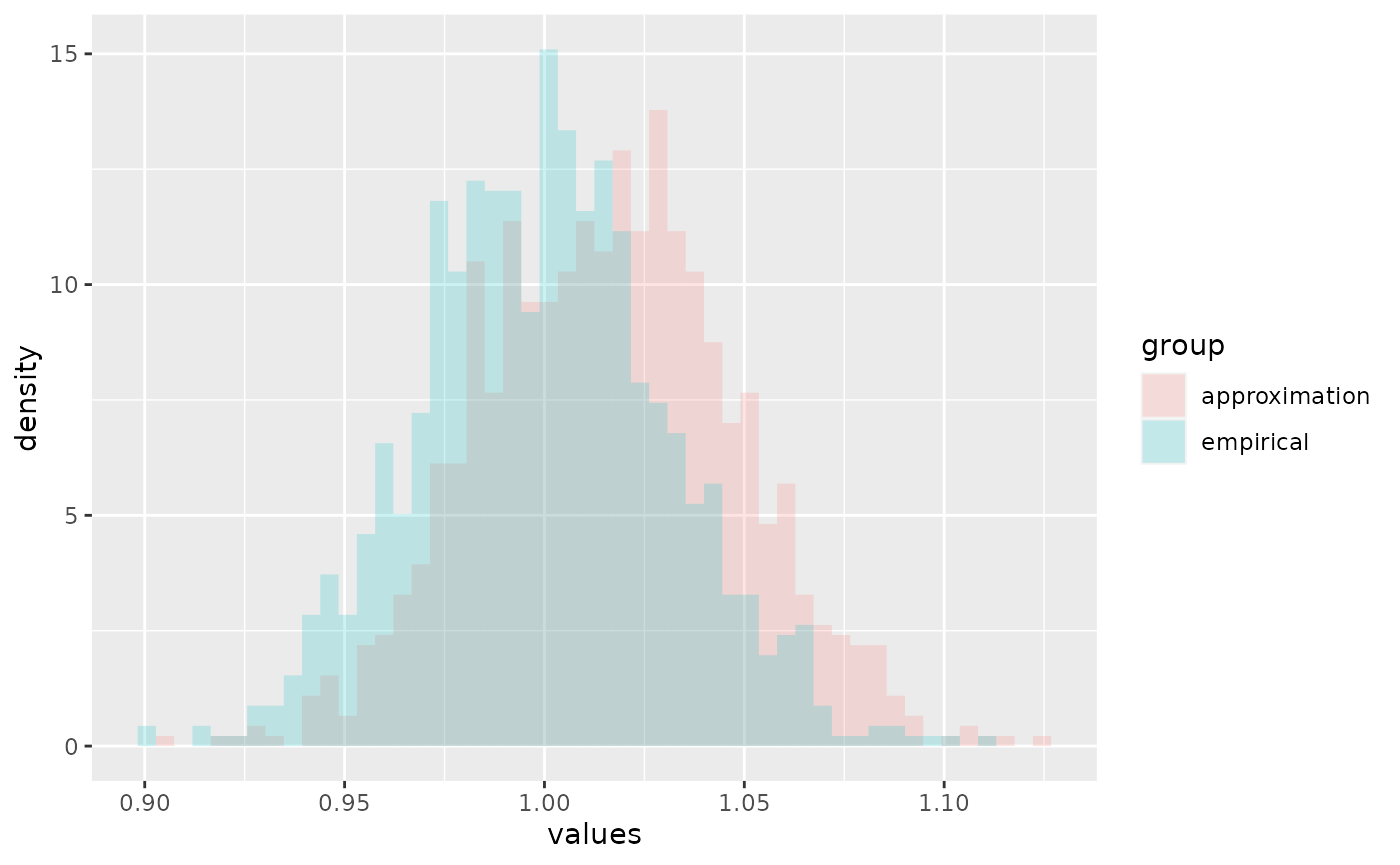
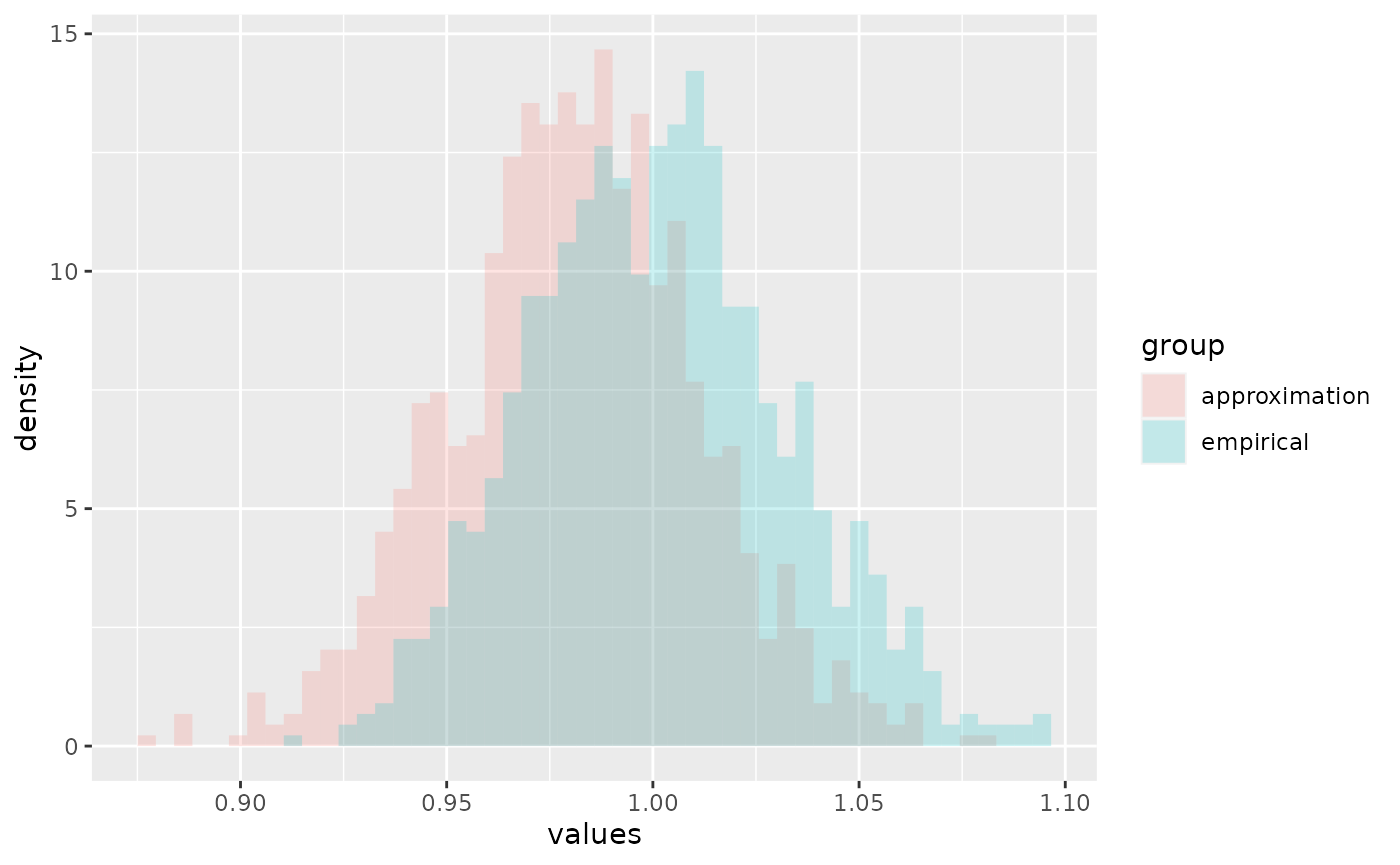
Built site for algebraic.mle: 0.1.0@a665d99

diff --git a/articles/exponential-mle.html b/articles/exponential-mle.html
@@ -103,12 +103,12 @@
 <div class="sourceCode" id="cb4"><pre class="downlit sourceCode r">
 <code class="sourceCode R"><span class="fu"><a href="https://rdrr.io/r/base/print.html" class="external-link">print</a></span><span class="op">(</span><span class="fu"><a href="https://rdrr.io/r/utils/head.html" class="external-link">head</a></span><span class="op">(</span><span class="va">x</span>,n<span class="op">=</span><span class="fl">4</span><span class="op">)</span><span class="op">)</span>
 <span class="co">#&gt; <span style="color: #949494;"># A tibble: 4 × 1</span></span>
-<span class="co">#&gt;        x</span>
-<span class="co">#&gt;    <span style="color: #949494; font-style: italic;">&lt;dbl&gt;</span></span>
-<span class="co">#&gt; <span style="color: #BCBCBC;">1</span> 0.046<span style="text-decoration: underline;">8</span></span>
-<span class="co">#&gt; <span style="color: #BCBCBC;">2</span> 0.053<span style="text-decoration: underline;">3</span></span>
-<span class="co">#&gt; <span style="color: #BCBCBC;">3</span> 0.801 </span>
-<span class="co">#&gt; <span style="color: #BCBCBC;">4</span> 1.94</span></code></pre></div>
+<span class="co">#&gt;         x</span>
+<span class="co">#&gt;     <span style="color: #949494; font-style: italic;">&lt;dbl&gt;</span></span>
+<span class="co">#&gt; <span style="color: #BCBCBC;">1</span> 0.006<span style="text-decoration: underline;">61</span></span>
+<span class="co">#&gt; <span style="color: #BCBCBC;">2</span> 0.152  </span>
+<span class="co">#&gt; <span style="color: #BCBCBC;">3</span> 0.850  </span>
+<span class="co">#&gt; <span style="color: #BCBCBC;">4</span> 2.10</span></code></pre></div>
 <p>We show a histogram of the sample overlaid with a plot of the exponential function’s pdf, with:</p>
 <div class="sourceCode" id="cb5"><pre class="downlit sourceCode r">
 <code class="sourceCode R"><span class="fu"><a href="https://ggplot2.tidyverse.org/reference/ggplot.html" class="external-link">ggplot</a></span><span class="op">(</span><span class="va">x</span>, <span class="fu"><a href="https://ggplot2.tidyverse.org/reference/aes.html" class="external-link">aes</a></span><span class="op">(</span>x<span class="op">=</span><span class="va">x</span><span class="op">)</span><span class="op">)</span> <span class="op">+</span> <span class="fu"><a href="https://ggplot2.tidyverse.org/reference/geom_histogram.html" class="external-link">geom_histogram</a></span><span class="op">(</span><span class="fu"><a href="https://ggplot2.tidyverse.org/reference/aes.html" class="external-link">aes</a></span><span class="op">(</span>y<span class="op">=</span><span class="va">..density..</span><span class="op">)</span>,alpha<span class="op">=</span><span class="fl">.2</span><span class="op">)</span> <span class="op">+</span>
@@ -125,35 +125,35 @@
 <span class="fu"><a href="https://rdrr.io/r/base/summary.html" class="external-link">summary</a></span><span class="op">(</span><span class="va">rate.hat</span><span class="op">)</span>
 <span class="co">#&gt; Maximum likelihood estimator, of type mle_exp ,</span>
 <span class="co">#&gt; is normally distributed with mean</span>
-<span class="co">#&gt; [1] 1.016196</span>
+<span class="co">#&gt; [1] 0.9809235</span>
 <span class="co">#&gt; and variance-covariance</span>
 <span class="co">#&gt;             [,1]</span>
-<span class="co">#&gt; [1,] 0.001032655</span>
+<span class="co">#&gt; [1,] 0.000962211</span>
 <span class="co">#&gt; ---</span>
-<span class="co">#&gt; The asymptotic mean squared error 0.001032655 </span>
+<span class="co">#&gt; The asymptotic mean squared error 0.000962211 </span>
 <span class="co">#&gt; The asymptotic 95% confidence interval is</span>
 <span class="co">#&gt;       2.5 %   97.5 %</span>
-<span class="co">#&gt; 1 0.9633389 1.069053</span>
-<span class="co">#&gt; The log-likelihood is -983.9336 </span>
-<span class="co">#&gt; The AIC is 1969.867</span></code></pre></div>
+<span class="co">#&gt; 1 0.9299009 1.031946</span>
+<span class="co">#&gt; The log-likelihood is -1019.261 </span>
+<span class="co">#&gt; The AIC is 2040.522</span></code></pre></div>
 <p>We can show the point estimator with:</p>
 <div class="sourceCode" id="cb7"><pre class="downlit sourceCode r">
 <code class="sourceCode R"><span class="fu"><a href="../reference/point.html">point</a></span><span class="op">(</span><span class="va">rate.hat</span><span class="op">)</span>
-<span class="co">#&gt; [1] 1.016196</span></code></pre></div>
+<span class="co">#&gt; [1] 0.9809235</span></code></pre></div>
 <p>We can show the Fisher information and variance-covariance matrices with:</p>
 <div class="sourceCode" id="cb8"><pre class="downlit sourceCode r">
 <code class="sourceCode R"><span class="fu"><a href="../reference/fisher_info.html">fisher_info</a></span><span class="op">(</span><span class="va">rate.hat</span><span class="op">)</span>
-<span class="co">#&gt;         [,1]</span>
-<span class="co">#&gt; [1,] 968.378</span>
+<span class="co">#&gt;          [,1]</span>
+<span class="co">#&gt; [1,] 1039.273</span>
 <span class="fu"><a href="https://rdrr.io/r/stats/vcov.html" class="external-link">vcov</a></span><span class="op">(</span><span class="va">rate.hat</span><span class="op">)</span>
 <span class="co">#&gt;             [,1]</span>
-<span class="co">#&gt; [1,] 0.001032655</span></code></pre></div>
+<span class="co">#&gt; [1,] 0.000962211</span></code></pre></div>
 <p>(If <code>rate.hat</code> had been a vector, <code>vcov</code> would have output a variance-covariance matrix. We may consider the above outputs <span class="math inline">\(1 \times 1\)</span> matrices.)</p>
 <p>We can show the confidence interval with:</p>
 <div class="sourceCode" id="cb9"><pre class="downlit sourceCode r">
 <code class="sourceCode R"><span class="fu"><a href="https://rdrr.io/r/stats/confint.html" class="external-link">confint</a></span><span class="op">(</span><span class="va">rate.hat</span><span class="op">)</span>
 <span class="co">#&gt;       2.5 %   97.5 %</span>
-<span class="co">#&gt; 1 0.9633389 1.069053</span></code></pre></div>
+<span class="co">#&gt; 1 0.9299009 1.031946</span></code></pre></div>
 <div class="section level3">
 <h3 id="sampling-distribution-of-the-mle">Sampling distribution of the MLE<a class="anchor" aria-label="anchor" href="#sampling-distribution-of-the-mle"></a>
 </h3>
@@ -205,10 +205,10 @@
 <p>We expected a mean of <span class="math inline">\(2\)</span> and a variance of <span class="math inline">\(4/n = 0.004\)</span>, which is pretty close to what we obtained:</p>
 <div class="sourceCode" id="cb15"><pre class="downlit sourceCode r">
 <code class="sourceCode R"><span class="fu"><a href="../reference/point.html">point</a></span><span class="op">(</span><span class="va">f.hat</span><span class="op">)</span>
-<span class="co">#&gt; [1] 2.032392</span>
+<span class="co">#&gt; [1] 1.961847</span>
 <span class="fu"><a href="https://rdrr.io/r/stats/vcov.html" class="external-link">vcov</a></span><span class="op">(</span><span class="va">f.hat</span><span class="op">)</span>
 <span class="co">#&gt;             [,1]</span>
-<span class="co">#&gt; [1,] 0.004257833</span></code></pre></div>
+<span class="co">#&gt; [1,] 0.003692142</span></code></pre></div>
 </div>
 </div>
 </div>
@@ -247,9 +247,9 @@
 <span class="fu"><a href="https://rdrr.io/r/base/colnames.html" class="external-link">colnames</a></span><span class="op">(</span><span class="va">df</span><span class="op">)</span> <span class="op">&lt;-</span> <span class="fu"><a href="https://rdrr.io/r/base/c.html" class="external-link">c</a></span><span class="op">(</span><span class="st">"point estimate"</span>,<span class="st">"variance"</span><span class="op">)</span>
 <span class="fu"><a href="https://tibble.tidyverse.org/reference/rownames.html" class="external-link">rownames</a></span><span class="op">(</span><span class="va">df</span><span class="op">)</span> <span class="op">&lt;-</span> <span class="fu"><a href="https://rdrr.io/r/base/c.html" class="external-link">c</a></span><span class="op">(</span><span class="st">"weighted MLE"</span>, <span class="st">"MLE"</span><span class="op">)</span>
 <span class="fu"><a href="https://rdrr.io/r/base/print.html" class="external-link">print</a></span><span class="op">(</span><span class="va">df</span><span class="op">)</span>
-<span class="co">#&gt;              point estimate     variance</span>
-<span class="co">#&gt; weighted MLE      0.9511083 0.0009115271</span>
-<span class="co">#&gt; MLE               0.9583841 0.0009185001</span></code></pre></div>
+<span class="co">#&gt;              point estimate    variance</span>
+<span class="co">#&gt; weighted MLE       1.025901 0.001053293</span>
+<span class="co">#&gt; MLE                1.026701 0.001054114</span></code></pre></div>
 <p>We see that <span class="math inline">\(\hat\theta\)</span> and <span class="math inline">\(\hat\theta_w\)</span> model approximately the same sampling distribution for <span class="math inline">\(\theta\)</span>.</p>
 </div>
 </div>
